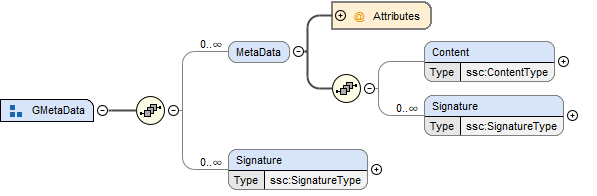
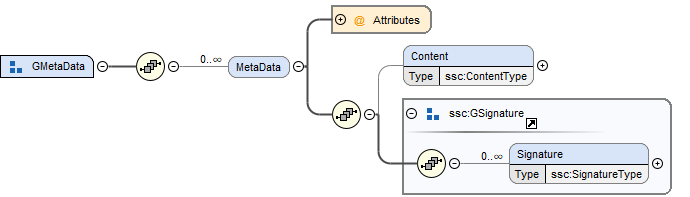
Update from https://github.com/modelica/ssp-standard/commit/cdbd8384d55d621d57af08f8e0e3502cea133e74

diff --git a/static/docs/main/index.html b/static/docs/main/index.html
@@ -586,8 +586,8 @@ document.addEventListener('keydown', (event) => {
 <div id="header">
 <h1>System Structure and Parameterization</h1>
 <div class="details">
-<span id="revnumber">version 9127c01,</span>
-<span id="revdate">2024-11-08</span>
+<span id="revnumber">version cdbd838,</span>
+<span id="revdate">2024-11-15</span>
 </div>
 <div id="toc" class="toc2">
 <div id="toctitle">Contents</div>
@@ -683,7 +683,11 @@ document.addEventListener('keydown', (event) => {
 <ul class="sectlevel4">
 <li><a href="#_metadata">4.5.4.1. MetaData</a></li>
 <li><a href="#_content">4.5.4.2. Content</a></li>
-<li><a href="#_signature">4.5.4.3. Signature</a></li>
+</ul>
+</li>
+<li><a href="#ssc_signature">4.5.5. Signature Sequence</a>
+<ul class="sectlevel4">
+<li><a href="#_signature">4.5.5.1. Signature</a></li>
 </ul>
 </li>
 </ul>
@@ -2447,11 +2451,11 @@ For those elements, it is considered an error if both attributes are present, or
 <div class="sect3">
 <h4 id="ssc_metadata">4.5.4. MetaData Sequence</h4>
 <div class="paragraph">
-<p><span class="image"><img src="images/SystemStructureCommon_GMetaData.png" alt="image" width="597" height="196"></span></p>
+<p><span class="image"><img src="images/SystemStructureCommon_GMetaData.png" alt="image" width="690" height="197"></span></p>
 </div>
 <div class="paragraph">
-<p>The group GMetaData allows the specification of additional meta data and signatures for a given model element.
-Multiple (or no) MetaData and Signature elements may be present in a given model element.</p>
+<p>The group GMetaData allows the specification of additional meta data for a given model element.
+Multiple (or no) MetaData elements may be present in a given model element.</p>
 </div>
 <table class="tableblock frame-all grid-all stretch">
 <colgroup>
@@ -2470,17 +2474,12 @@ Multiple (or no) MetaData and Signature elements may be present in a given model
 <td class="tableblock halign-left valign-top"><p class="tableblock">One or more instances of this element <strong>CAN</strong> be present to specify meta data related to the containing model element.
 See below for details.</p></td>
 </tr>
-<tr>
-<td class="tableblock halign-left valign-top"><p class="tableblock">Signature</p></td>
-<td class="tableblock halign-left valign-top"><p class="tableblock">One or more instances of this element <strong>CAN</strong> be present to specify signatures related to the containing model element.
-See below for details.</p></td>
-</tr>
 </tbody>
 </table>
 <div class="sect4">
 <h5 id="_metadata">4.5.4.1. MetaData</h5>
 <div class="paragraph">
-<p><span class="image"><img src="images/SystemStructureCommon_MetaData.png" alt="image" width="369" height="543"></span></p>
+<p><span class="image"><img src="images/SystemStructureCommon_MetaData.png" alt="image" width="462" height="479"></span></p>
 </div>
 <div class="paragraph">
 <p>This element specifies a source of meta data related to the containing model element.</p>
@@ -2575,7 +2574,7 @@ In this case the URI is resolved against the (resolved) source URI of the contai
 <div class="sect4">
 <h5 id="_content">4.5.4.2. Content</h5>
 <div class="paragraph">
-<p><span class="image"><img src="images/SystemStructureCommon_Content.png" alt="image" width="377" height="306"></span></p>
+<p><span class="image"><img src="images/SystemStructureCommon_Content.png" alt="image" width="372" height="191"></span></p>
 </div>
 <div class="paragraph">
 <p>This element specifies the inlined content of the model element meta data.</p>
@@ -2585,10 +2584,39 @@ In this case the URI is resolved against the (resolved) source URI of the contai
 In that case there <strong>SHOULD</strong> be a layered specification that defines how embedding the content works for that MIME type.</p>
 </div>
 </div>
-<div class="sect4">
-<h5 id="_signature">4.5.4.3. Signature</h5>
+</div>
+<div class="sect3">
+<h4 id="ssc_signature">4.5.5. Signature Sequence</h4>
 <div class="paragraph">
-<p><span class="image"><img src="images/SystemStructureCommon_Signature.png" alt="image" width="423" height="534"></span></p>
+<p><span class="image"><img src="images/SystemStructureCommon_GSignature.png" alt="image" width="652" height="133"></span></p>
+</div>
+<div class="paragraph">
+<p>The group GSignature allows the specification of digital signatures for a given model element.
+Multiple (or no) Signature elements may be present in a given model element.</p>
+</div>
+<table class="tableblock frame-all grid-all stretch">
+<colgroup>
+<col style="width: 33%;">
+<col style="width: 67%;">
+</colgroup>
+<thead>
+<tr>
+<th class="tableblock halign-left valign-top">Element</th>
+<th class="tableblock halign-left valign-top">Description</th>
+</tr>
+</thead>
+<tbody>
+<tr>
+<td class="tableblock halign-left valign-top"><p class="tableblock">Signature</p></td>
+<td class="tableblock halign-left valign-top"><p class="tableblock">One or more instances of this element <strong>CAN</strong> be present to specify signatures related to the containing model element.
+See below for details.</p></td>
+</tr>
+</tbody>
+</table>
+<div class="sect4">
+<h5 id="_signature">4.5.5.1. Signature</h5>
+<div class="paragraph">
+<p><span class="image"><img src="images/SystemStructureCommon_Signature.png" alt="image" width="423" height="419"></span></p>
 </div>
 <div class="paragraph">
 <p>This element specifies digital signature information on the data or meta data referenced by the enclosing element:
@@ -2699,7 +2727,7 @@ All SSD-specific elements live in the <code><a href="http://ssp-standard.org/SSP
 <div class="sect2">
 <h3 id="_systemstructuredescription">5.1. SystemStructureDescription</h3>
 <div class="paragraph">
-<p><span class="image"><img src="images/image23.png" alt="image" width="464" height="506"></span></p>
+<p><span class="image"><img src="images/SystemStructureDescription_SystemStructureDescription.png" alt="image" width="475" height="693"></span></p>
 </div>
 <div class="paragraph">
 <p>The root element of an SSD file <strong>MUST</strong> be a SystemStructureDescription element, which gives overall information about the system hierarchy described in this SSD file, including common meta-data, and acts as a bracket for the root system and its unit and enumeration definitions.</p>
@@ -2818,7 +2846,7 @@ See <a href="#_units">Section 4.4.2</a> for its definition.</p></td>
 <p>System, Component and SignalDictionaryReference XML elements are subtypes of a common TElement base type, that contains attributes and XML elements common to all kinds of model elements:</p>
 </div>
 <div class="paragraph">
-<p><span class="image"><img src="images/image25.png" alt="image" width="379" height="280"></span></p>
+<p><span class="image"><img src="images/SystemStructureDescription_TElement.png" alt="image" width="391" height="466"></span></p>
 </div>
 <div class="paragraph">
 <p>The following XML attributes are specified for the TElement type:</p>
@@ -3377,7 +3405,7 @@ _</strong></p>
 <div class="sect3">
 <h4 id="_parameterbindings">5.2.3. ParameterBindings</h4>
 <div class="paragraph">
-<p><span class="image"><img src="images/image32.png" alt="image" width="646" height="470"></span></p>
+<p><span class="image"><img src="images/SystemStructureDescription_ParameterBindings.png" alt="image" width="746" height="719"></span></p>
 </div>
 <div class="paragraph">
 <p>The ParameterBindings element provides the parameter bindings for a component or system, where each binding is specified in a ParameterBinding element.
@@ -3556,7 +3584,7 @@ In that case there <strong>SHOULD</strong> be a layered specification that defin
 <div class="sect4">
 <h5 id="_parametermapping">5.2.3.2. ParameterMapping</h5>
 <div class="paragraph">
-<p><span class="image"><img src="images/image34.png" alt="image" width="441" height="355"></span></p>
+<p><span class="image"><img src="images/SystemStructureDescription_ParameterMapping.png" alt="image" width="473" height="541"></span></p>
 </div>
 <div class="paragraph">
 <p>This element provides a parameter mapping, which specifies how the parameter names and values provided in the parameter source are to be mapped to the parameters of the component or system in question.
@@ -3617,7 +3645,7 @@ In that case there <strong>SHOULD</strong> be a layered specification that defin
 <div class="sect2">
 <h3 id="_system">5.3. System</h3>
 <div class="paragraph">
-<p><span class="image"><img src="images/image35.png" alt="image" width="452" height="641"></span></p>
+<p><span class="image"><img src="images/SystemStructureDescription_System.png" alt="image" width="463" height="827"></span></p>
 </div>
 <div class="paragraph">
 <p>This element describes a system, which can contain components, signal dictionary references and other systems as elements, connectors as an interface to the outside world, and connections connecting the connectors of itself and of its elements to one another.</p>
@@ -4168,7 +4196,7 @@ When a large number of signals have to be handled, signal dictionaries can help 
 <p>This optional element provides the set of defined signal dictionaries for the system.</p>
 </div>
 <div class="paragraph">
-<p><span class="image"><img src="images/image41.png" alt="image" width="415" height="336"></span></p>
+<p><span class="image"><img src="images/SystemStructureDescription_SignalDictionary.png" alt="image" width="447" height="522"></span></p>
 </div>
 <div class="paragraph">
 <p>A signal dictionary is a collection of signals which can be accessed in different systems at different levels of the hierarchy through signal dictionary references referencing the signal dictionary.</p>
@@ -4369,7 +4397,7 @@ Inside the text attribute, newlines indicate paragraph breaks.</p>
 <div class="sect2">
 <h3 id="_component">5.4. Component</h3>
 <div class="paragraph">
-<p><span class="image"><img src="images/image45.png" alt="image" width="470" height="588"></span></p>
+<p><span class="image"><img src="images/SystemStructureDescription_Component.png" alt="image" width="481" height="879"></span></p>
 </div>
 <div class="paragraph">
 <p>A component is an atomic element of a system (i.e. its internal structure is not specified).</p>
@@ -4440,7 +4468,7 @@ It is an error if the specified type of FMU implementation is not present in the
 <div class="sect2">
 <h3 id="_signaldictionaryreference">5.5. SignalDictionaryReference</h3>
 <div class="paragraph">
-<p><span class="image"><img src="images/image46.png" alt="image" width="544" height="442"></span></p>
+<p><span class="image"><img src="images/SystemStructureDescription_SignalDictionaryReference.png" alt="image" width="555" height="733"></span></p>
 </div>
 <div class="paragraph">
 <p>A signal dictionary reference is an element of a system that references a signal dictionary, i.e. it is the place-holder of the signal dictionary that allows access to the contents of the signal dictionary through its connectors, which <strong>MUST</strong> reference signal dictionary entries.</p>
@@ -4495,7 +4523,7 @@ Except for this file extension recommendation the filename is arbitrary and is i
 <div class="sect2">
 <h3 id="_parameterset">6.1. ParameterSet</h3>
 <div class="paragraph">
-<p><span class="image"><img src="images/SystemStructureParameterValues_ParameterSet.png" alt="image" width="405" height="574"></span></p>
+<p><span class="image"><img src="images/SystemStructureParameterValues_ParameterSet.png" alt="image" width="405" height="639"></span></p>
 </div>
 <div class="paragraph">
 <p>The ParameterSet element contains parameter and meta data information.
@@ -5259,7 +5287,7 @@ Except for this file extension recommendation the filename is arbitrary and is i
 <div class="sect2">
 <h3 id="_parametermapping_2">7.1. ParameterMapping</h3>
 <div class="paragraph">
-<p><span class="image"><img src="images/SystemStructureParameterMapping_ParameterMapping.png" alt="image" width="450" height="412"></span></p>
+<p><span class="image"><img src="images/SystemStructureParameterMapping_ParameterMapping.png" alt="image" width="450" height="477"></span></p>
 </div>
 <div class="paragraph">
 <p>This element describes a parameter mapping, which consists of multiple mapping entries, each describing one parameter mapping (see next section).
@@ -5380,7 +5408,7 @@ Any enumerations or units used in the DictionaryEntry elements <strong>MUST</str
 <div class="sect2">
 <h3 id="_signaldictionary">8.1. SignalDictionary</h3>
 <div class="paragraph">
-<p><span class="image"><img src="images/SystemStructureSignalDictionary_SignalDictionary.png" alt="image" width="438" height="520"></span></p>
+<p><span class="image"><img src="images/SystemStructureSignalDictionary_SignalDictionary.png" alt="image" width="438" height="585"></span></p>
 </div>
 <div class="paragraph">
 <p>This element describes a signal dictionary, which consists of one or more dictionary entries, each describing one signal in the signal dictionary (see next section).</p>
